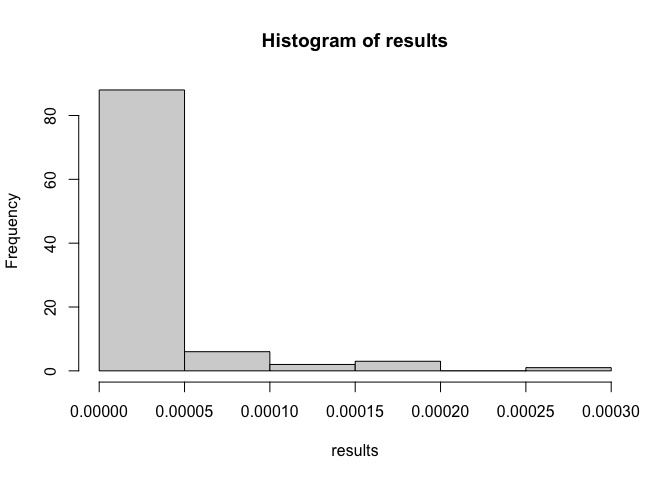
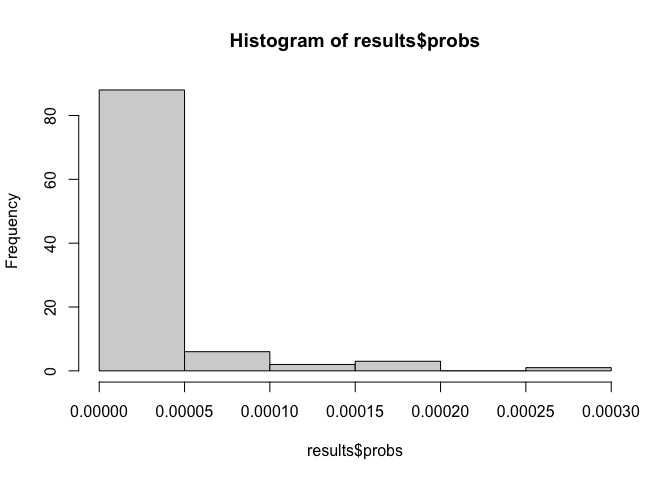
Update README.md to match README.rmd

Changed region(s): [[0.3438, 0.0625, 0.7188, 0.125], [0.4688, 0.9062, 0.5938, 0.9688]]

diff --git a/README.md b/README.md
@@ -1,14 +1,30 @@
 
+<!-- README.md is generated from README.Rmd. Please edit that file -->
+
 # nnadic
 
 <!-- badges: start -->
+
 <!-- badges: end -->
 
-The goal of nnadic is to ...
+The goal of nnadic (**N**eural **N**etwork for **A**symptotic
+**D**ependence/**I**ndependence **C**lassification) is to classify
+bivariate data sets as either asymptotically dependent or independent
+using a trained convolutional neural network. The tool is set up to
+automatically:\
+- transform the marginal distribution\
+- take the top 5% of the data (using the $l_\infty$-norm)\
+- resample or subsample as necessary to ensure the data is of the
+correct dimension\
+- output the predicted result from the neural network
+
+There are many customization options which allow the user to take
+advantage of advanced functionality.
 
 ## Installation
 
-You can install the development version of nnadic from [GitHub](https://github.com/) with:
+You can install the development version of nnadic from
+[GitHub](https://github.com/) with:
 
 ``` r
 # install.packages("pak")
@@ -17,10 +33,85 @@ pak::pak("twixson/nnadic")
 
 ## Example
 
-This is a basic example which shows you how to solve a common problem:
+This is a basic example which shows you the common workflow:
 
 ``` r
 library(nnadic)
-## basic example code
+#> Welcome to nnadic!
+library(nnadicTestData)
+library(evd)      # for generating ADep datasets (logistic)
+library(mvtnorm)  # for generating AInd datasets (gaussian)
+
+test_data_four <- make_symmetric(test_data_four)
+
+results <- nnadic(test_data_four, make_hist = TRUE)
+#>   |                                                          |                                                  |   0%  |                                                          |====                                              |   8%  |                                                          |=======================                           |  46%  |                                                          |===================================               |  69%  |                                                          |======================================            |  77%  |                                                          |==========================================        |  85%  |                                                          |==============================================    |  92%  |                                                          |==================================================| 100%
 ```
 
+<img src="man/figures/README-example-1.png" alt="" width="100%" />
+
+``` r
+mean((results$probs > 0.5) == test_response_four)
+#> [1] 0.96925
+```
+
+``` r
+set.seed(2938)
+# Lets generate a new Adep dataset
+data <- rbvevd(8734, dep = 0.5, model = "log")
+# and test it
+data_ready <- get_nnadic_input(data)
+#> [1] "...transforming to exponential marginal distributions"
+#> [1] "...   estimated gpd parameters in the marginal transformation were: "
+#> [1] "...  ...location: 3.036   scale: 0.977   shape: 0.045"
+#> [1] "...  ...location: 2.985   scale: 1.019   shape: 0.025"
+#> [1] "...fewer than 10000 points detected, points above the 0.95 quantile"
+#> [1] "...   will be resampled"
+#> [1] "...   437 large points identified"
+#> [1] "...the first 437 points in each dataset"
+#> [1] "...   are the top 5% of points (repeated when possible)."
+#> [1] "...the rest of the points were subsampled so that all 100"
+#> [1] "...   datasets have 500 points."
+#> [1] "...each dataset was made symmetric and now has 1000 points."
+results <- nnadic(data_ready, make_hist = TRUE, one_test = TRUE)
+#>   |                                                          |                                                  |   0%  |                                                          |====                                              |   8%  |                                                          |=======================                           |  46%  |                                                          |===================================               |  69%  |                                                          |======================================            |  77%  |                                                          |==========================================        |  85%  |                                                          |==============================================    |  92%  |                                                          |==================================================| 100%
+```
+
+<img src="man/figures/README-unnamed-chunk-2-1.png" alt="" width="100%" />
+
+``` r
+mean(results$preds == "AI")
+#> [1] 0
+results$mean
+#> [1] 0
+# should be 0
+```
+
+``` r
+# Lets generate a new Adep dataset
+data <- rmvnorm(19886, c(0,0), matrix(c(1, 0.5, 0.5, 1), nrow = 2))
+# and test it
+data_ready <- get_nnadic_input(data, subsample = TRUE)
+#> [1] "...transforming to exponential marginal distributions"
+#> [1] "...   estimated gpd parameters in the marginal transformation were: "
+#> [1] "...  ...location: 1.655   scale: 0.48   shape: -0.126"
+#> [1] "...  ...location: 1.672   scale: 0.47   shape: -0.121"
+#> [1] "...more than 10000 points detected"
+#> [1] "...\"subsample = TRUE\" including all points greater than the 0.95 quantile"
+#> [1] "...   995 large points identified"
+#> [1] "...points above the 0.95 quantile were subsampled 100 times"
+#> [1] "...   so that each dataset has exactly 500 points."
+#> [1] "...each dataset was made symmetric and now has 1000 points."
+results <- nnadic(data_ready, make_hist = TRUE, one_test = TRUE)
+#>   |                                                          |                                                  |   0%  |                                                          |====                                              |   8%  |                                                          |=======================                           |  46%  |                                                          |===================================               |  69%  |                                                          |======================================            |  77%  |                                                          |==========================================        |  85%  |                                                          |==============================================    |  92%  |                                                          |==================================================| 100%
+```
+
+<img src="man/figures/README-unnamed-chunk-3-1.png" alt="" width="100%" />
+
+``` r
+mean(results$preds > "AI")
+#> [1] 0
+results$mean
+#> [1] 1
+# should be 1
+```
